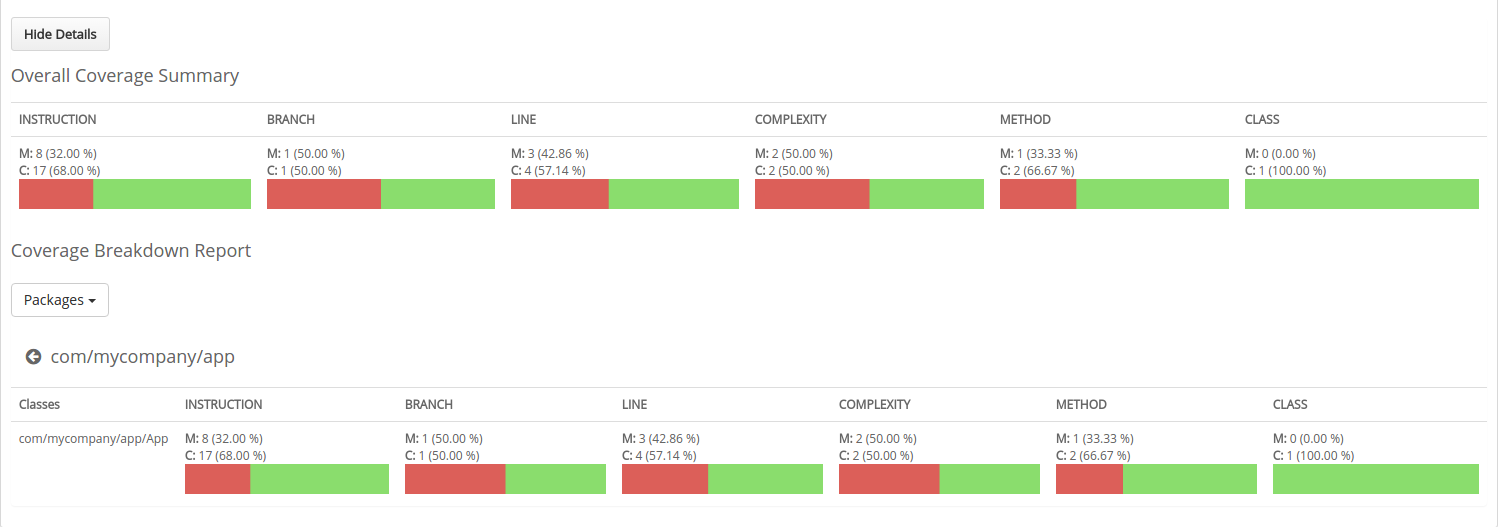
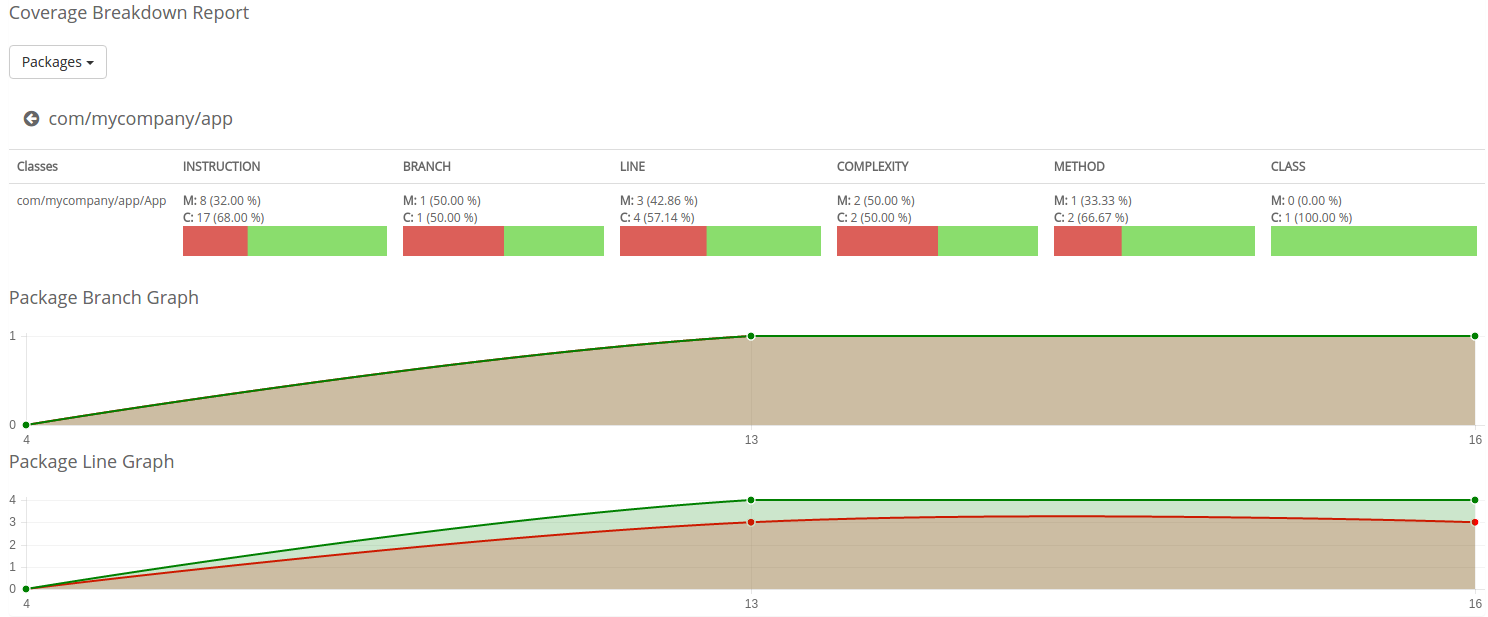
updates the jacoco advance reporting docs

diff --git a/sources/tutorials/ci/integrations/codeCoverage/usingJacoco.md b/sources/tutorials/ci/integrations/codeCoverage/usingJacoco.md
@@ -78,6 +78,16 @@ Once the button is clicked, you'll see some additional information beyond what i
 
 <img src="/ci/images/integrations/codeCoverage/jacoco/overallCoverageSummary.png" alt="initial expand" style="width:700px;"/>
 
+In the Job Coverage Files section you can download the code coverage file in the .tar.gz format.
+
+<img src="/ci/images/integrations/codeCoverage/jacoco/downloadButton.png" alt="download file section" style="width:700px;"/>
+
+Below the Overall Coverage Summary section, you can see average line coverage trend graph and branch coverage trend graph for overall
+coverage results of the last ten runs.
+The Red color shows the missed line and branch coverage, whereas the green color depicts the covered line and branch coverage.
+
+<img src="/ci/images/integrations/codeCoverage/jacoco/trendGraph.png" alt="trend graph section" style="width:700px;"/>
+
 In the Coverage Breakdown Report section, you can see a dropdown, which will allow you to switch between a package level view, and a file level view.
 
 <img src="/ci/images/integrations/codeCoverage/jacoco/packagesVsFiles.png" alt="packages vs files" style="width:700px;"/>
@@ -86,7 +96,8 @@ From the packages view, it is possible to narrow your results down to a specific
 
 <img src="/ci/images/integrations/codeCoverage/jacoco/leftColumnHighlight.png" alt="drill down" style="width:700px;"/>
 
-Now you're looking at that particular package. You can see all of the classes in that package, as well as the stats for each class.
+Now you're looking at that particular package. You can see all of the classes in that package, stats for each class as well as
+the average package line and branch trend graph of last ten runs for that particular package.
 
 <img src="/ci/images/integrations/codeCoverage/jacoco/packageDetail.png" alt="package details" style="width:700px;"/>
 
@@ -94,6 +105,10 @@ From there, you can take it one step further and focus on a single class within 
 
 <img src="/ci/images/integrations/codeCoverage/jacoco/classDetails.png" alt="class in session" style="width:700px;"/>
 
-This allows you to really get to the bottom of any missed lines.
+Now all the methods in a particular class will be shown, and to see the details of a specific method, simply click on that method name
+and then that particular file will be shown with the lines and branches that are fully covered (shown in dark green), partially covered
+(shown in grey) and uncovered (shown in dark red).
 
-That's as far as Shippable's Jacoco report will let you go for now. We're currently working on the ability to take this workflow one step further and see the actual lines of code where coverage was missed.
+<img src="/ci/images/integrations/codeCoverage/jacoco/colorDetails.png" alt="source code view" style="width:700px;"/>
+
+This allows you to really get to the bottom of any missed lines.
